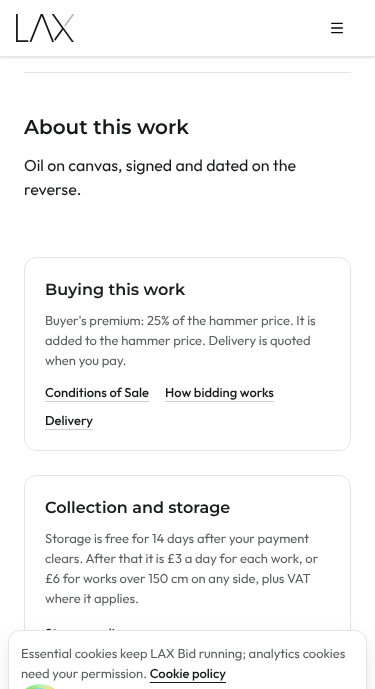
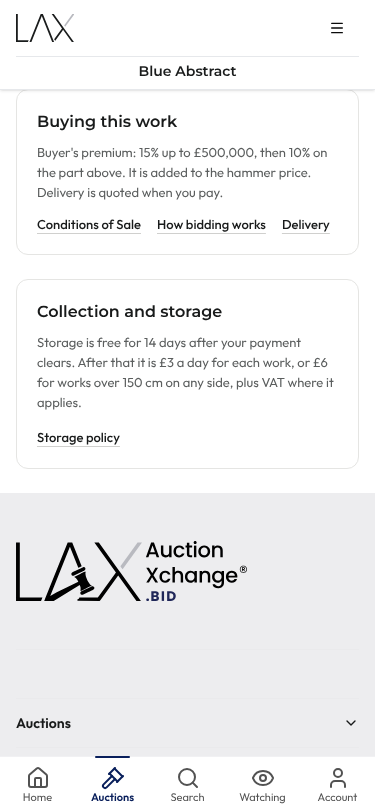
Retake the lot and shipping storage screenshots
The shipping shots still showed the old general storage sentence below the place's terms, and the 375 px lot shot had the cookie banner over the Storage policy link. Both pages were shot again in light and dark at 1440 and 375 px, with the banner and dev overlays hidden.

diff --git a/docs/pr-evidence/storage-terms-buyer/README.md b/docs/pr-evidence/storage-terms-buyer/README.md
@@ -15,5 +15,8 @@ They were taken from the real components, fed by the real formatter, on a local 
 stub API. Payment cleared Mon 2 Nov 2026, 14 days free at £3 a day, so the collect-by day is
 Mon 16 Nov. The 375 px `purchases-list` and `notice-*` shots were retaken after review, with the cookie banner,
 the dev indicator and the floating avatar hidden; the running total now wraps onto its own badge.
-The other 375 px shots (`lot`, `shipping`, `booking`) are unchanged components and still show the
-site's cookie banner; they were not retaken because their stub API is not part of the repository.
+The `lot` and `shipping` shots, at both widths and in both themes, were retaken after the merge
+review, from the same dev server with a stub API for the public lot and the place terms, and with
+the cookie banner, the dev indicator and the floating avatar hidden. The shipping page now shows the
+place's terms without the old general "storage charges may apply" sentence, which only appears
+while no place has terms. The `booking` shots are unchanged.
